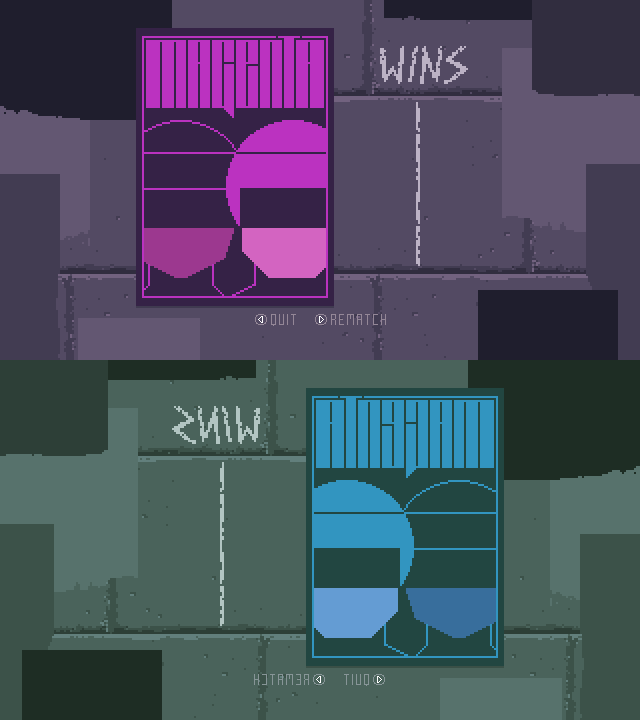
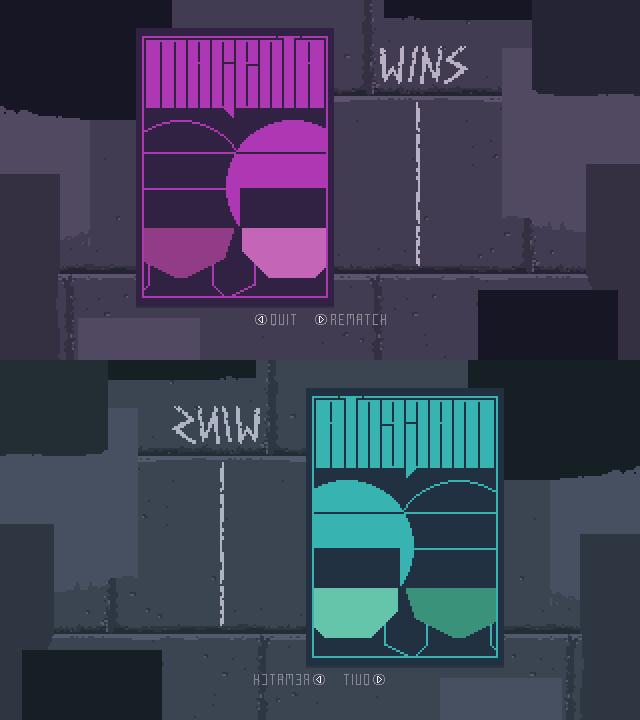
modified colors on win screen and added team winning and paused title cards

diff --git a/RealDodgeball/RealDodgeball/Game/States/WinState.cs b/RealDodgeball/RealDodgeball/Game/States/WinState.cs
@@ -57,8 +57,8 @@ namespace Dodgeball.Game {
         tally.x = winningTeam == Team.Left ? 346 : 152;
         tally.color = winningTeam == Team.Left ?
           //new Color(0x92, 0xca, 0xd9) :
-          new Color(0xd3, 0x81, 0xd7) :
-          new Color(0xc8, 0x91, 0xd8);
+          new Color(0x8c, 0xbe, 0xcd) :
+          new Color(0xb9, 0x8b, 0xce);
         add(tally);
       }
 
@@ -73,8 +73,8 @@ namespace Dodgeball.Game {
         tally.y = 108 + (38 * i);
         tally.x = winningTeam == Team.Left ? 432 : 238;
         tally.color = winningTeam == Team.Left ?
-          new Color(0x92, 0xca, 0xd9) :
-          new Color(0x78, 0xd1, 0xda);
+          new Color(0xc6, 0x79, 0xcd) :
+          new Color(0x70, 0xc7, 0xce);
         add(tally);
       }
     }
